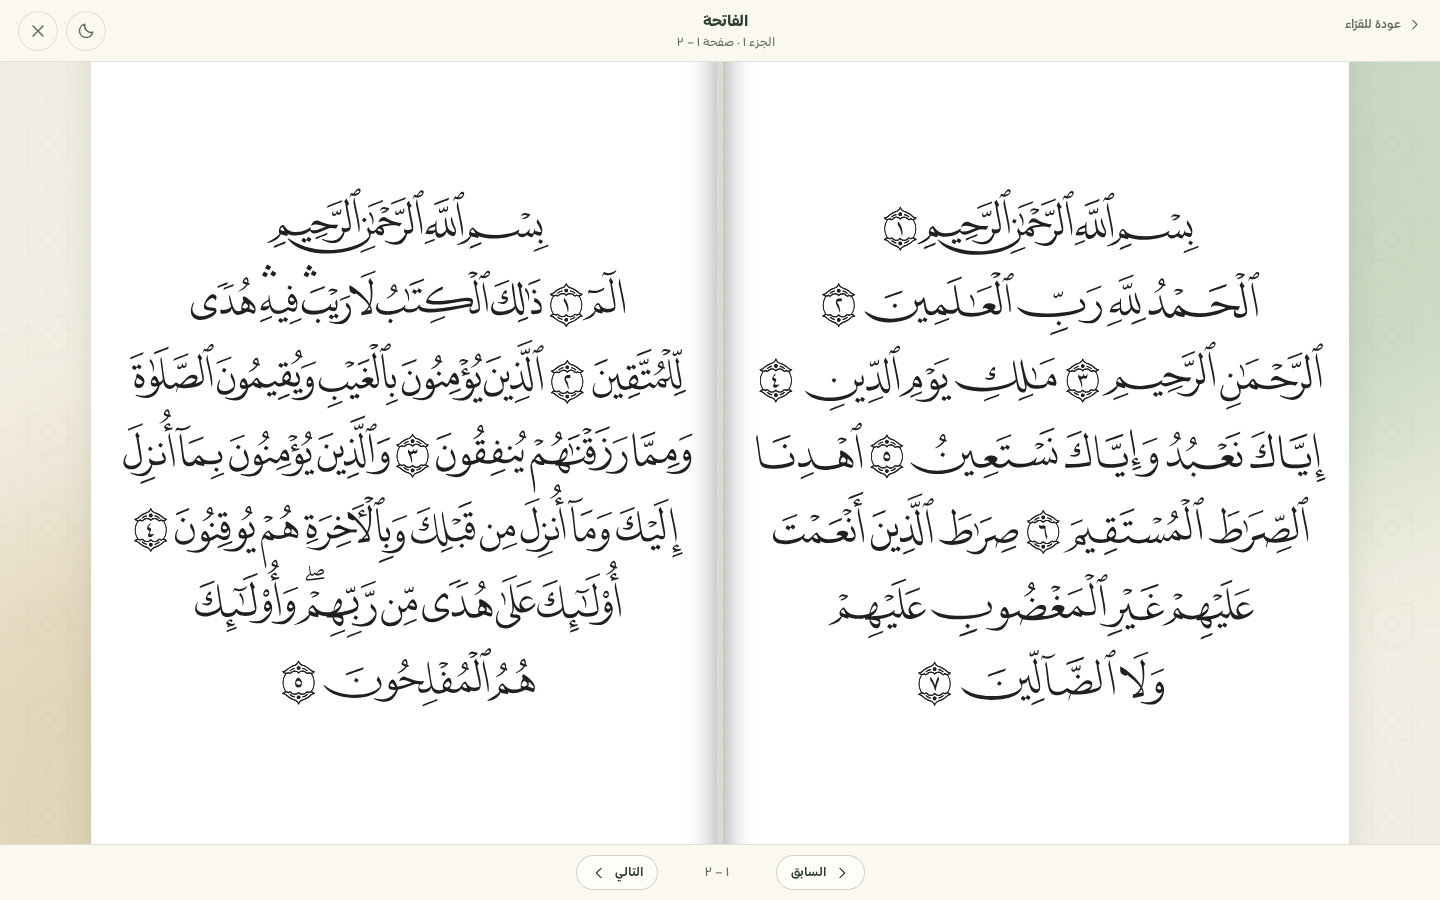
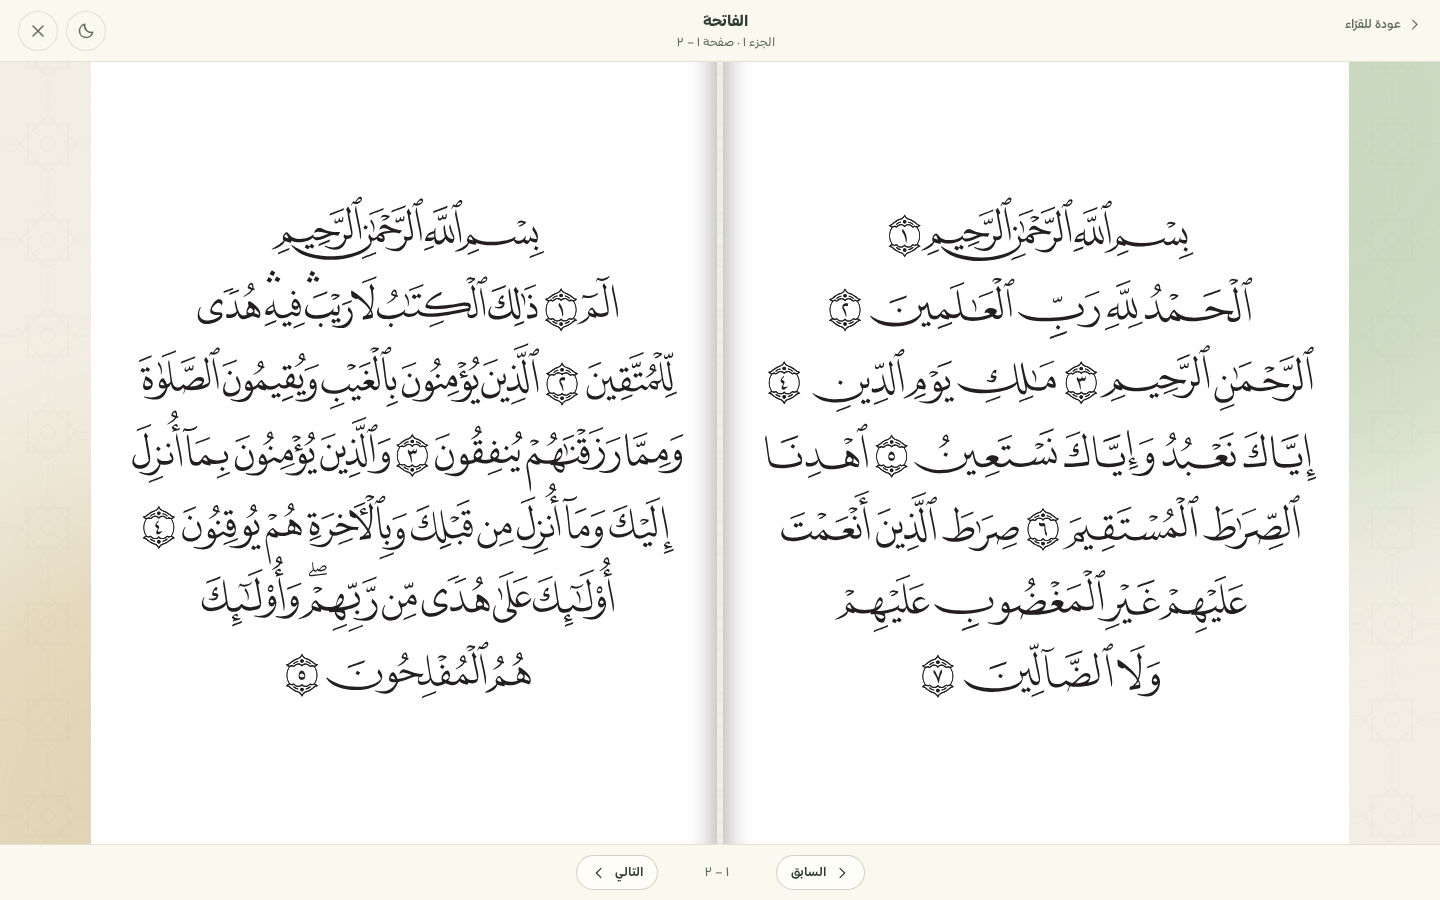
Book spread: pad page containers, drop img shadow

Changed region(s): [[0.0938, 0.2178, 0.5, 0.7778], [0.5312, 0.2178, 0.9375, 0.7778]]

diff --git a/src/styles/global.css b/src/styles/global.css
@@ -495,6 +495,8 @@ html[dir="rtl"] .mushaf-foot .ic,html[dir="rtl"] .back-btn .ic{transform:scaleX(
 .mushaf-stage.book .mushaf-page::after{content:"";position:absolute;inset:0;border-radius:6px;pointer-events:none}
 .mushaf-stage.book .mushaf-page:first-child::after{box-shadow:inset 26px 0 30px -26px rgba(0,0,0,.4)}
 .mushaf-stage.book .mushaf-page:last-child::after{box-shadow:inset -26px 0 30px -26px rgba(0,0,0,.4)}
+.mushaf-stage.book .mushaf-page{padding:10px}
+.mushaf-stage.book .mushaf-page img{max-height:100%;max-width:100%;object-fit:contain;border-radius:6px;box-shadow:none}
 
 /* ═══════════════ mobile responsiveness ═══════════════ */
 @media(max-width:640px){
